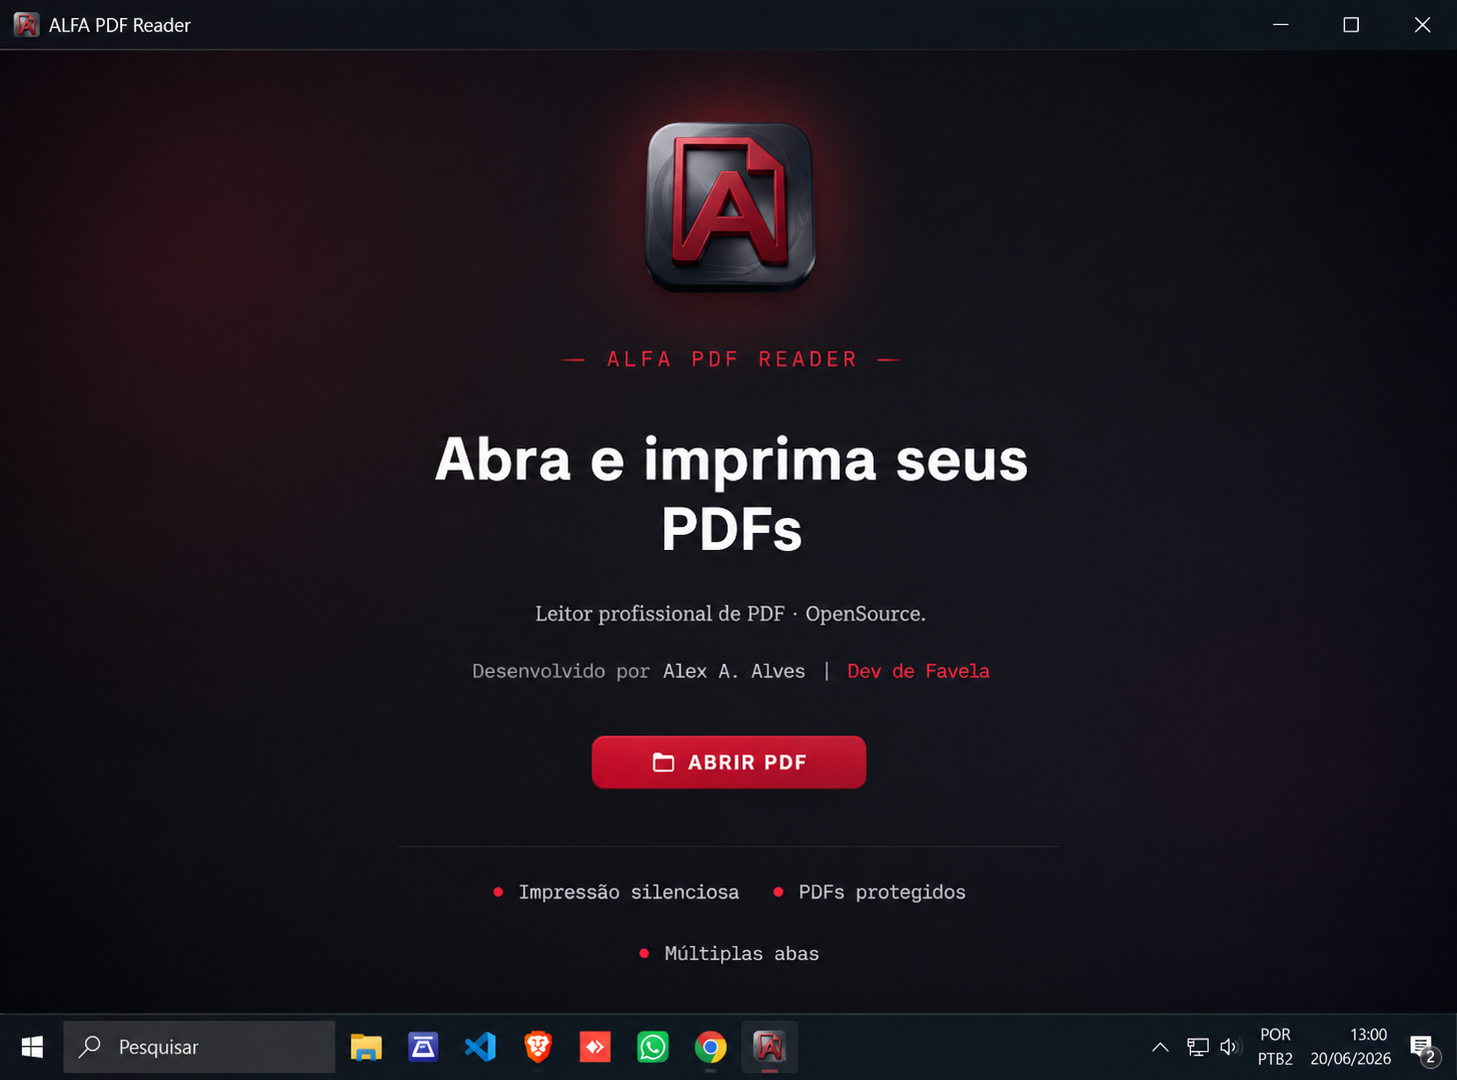
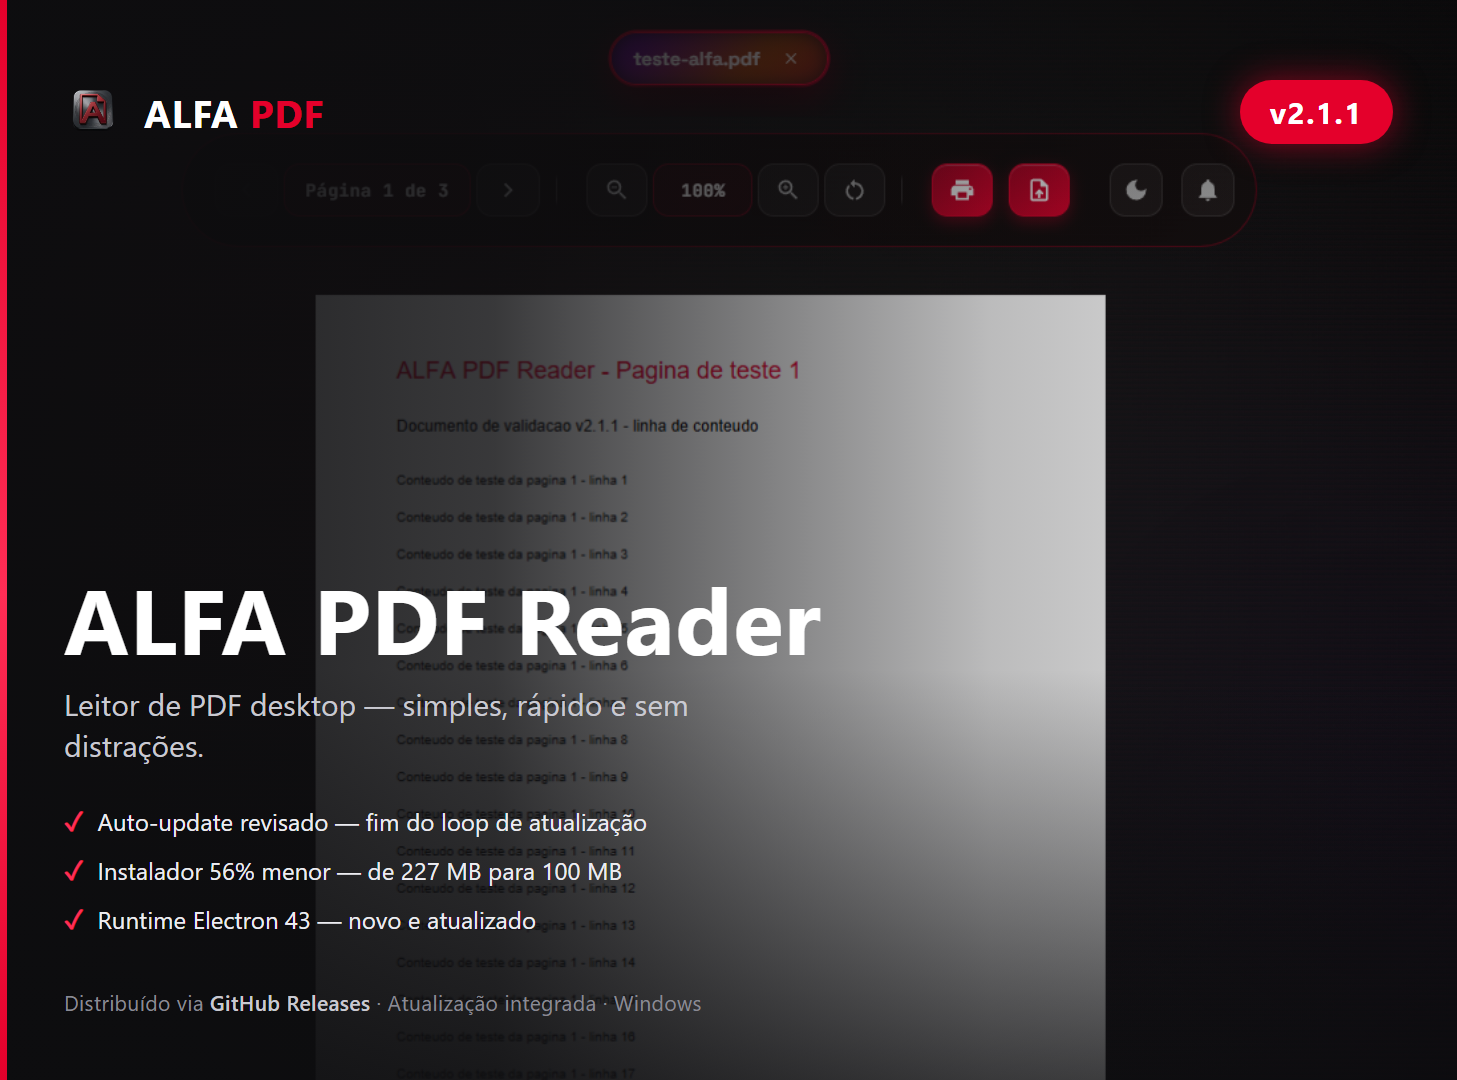
card do alfa v2.1.1 atualizado com prints reais do auto-update

diff --git a/src/components/ProjectSlider/ProjectModal.tsx b/src/components/ProjectSlider/ProjectModal.tsx
@@ -9,9 +9,12 @@ import type { IconType } from 'react-icons'
 
 interface VersionComparison {
     feature: string
-    v12: string
-    v20: string
+    from: string
+    to: string
 }
+
+const NEW_VERSION = 'v2.1.1'
+const OLD_VERSION = 'v2.0'
 
 const techIconMap: Record<string, { Icon: IconType; color: string }> = {
     React: { Icon: SiReact, color: '#61dafb' },
@@ -27,18 +30,18 @@ const techIconMap: Record<string, { Icon: IconType; color: string }> = {
 interface ProjectModalProps {
     project: Project
     onClose: () => void
-    v2Images?: string[]
+    v21Images?: string[]
     v12Images?: string[]
     comparison?: VersionComparison[]
 }
 
-export function ProjectModal({ project, onClose, v2Images = [], v12Images = [], comparison = [] }: ProjectModalProps) {
+export function ProjectModal({ project, onClose, v21Images = [], v12Images = [], comparison = [] }: ProjectModalProps) {
     const closeButtonRef = useRef<HTMLButtonElement>(null)
     const [showV2, setShowV2] = useState(false)
     const [rotate, setRotate] = useState(false)
-    const [currentV2Index, setCurrentV2Index] = useState(0)
+    const [currentV21Index, setCurrentV21Index] = useState(0)
     const [currentV12Index, setCurrentV12Index] = useState(0)
-    const [activeTab, setActiveTab] = useState<'v2' | 'comparison'>('v2')
+    const [activeTab, setActiveTab] = useState<'v21' | 'comparison'>('v21')
 
     useEffect(() => {
         const previouslyFocused = document.activeElement as HTMLElement | null
@@ -66,12 +69,12 @@ export function ProjectModal({ project, onClose, v2Images = [], v12Images = [], 
         }, 500)
     }
 
-    const goToPrevV2 = () => {
-        setCurrentV2Index((prev) => (prev === 0 ? v2Images.length - 1 : prev - 1))
+    const goToPrevV21 = () => {
+        setCurrentV21Index((prev) => (prev === 0 ? v21Images.length - 1 : prev - 1))
     }
 
-    const goToNextV2 = () => {
-        setCurrentV2Index((prev) => (prev === v2Images.length - 1 ? 0 : prev + 1))
+    const goToNextV21 = () => {
+        setCurrentV21Index((prev) => (prev === v21Images.length - 1 ? 0 : prev + 1))
     }
 
     const goToPrevV12 = () => {
@@ -82,7 +85,7 @@ export function ProjectModal({ project, onClose, v2Images = [], v12Images = [], 
         setCurrentV12Index((prev) => (prev === v12Images.length - 1 ? 0 : prev + 1))
     }
 
-    if (showV2 && (v2Images.length > 0 || v12Images.length > 0 || comparison.length > 0)) {
+    if (showV2 && (v21Images.length > 0 || v12Images.length > 0 || comparison.length > 0)) {
         return createPortal(
             <div className="project-modal-template" role="dialog" aria-modal="true" aria-labelledby="project-modal-v2-title" onClick={onClose}>
                 <div className="project-modal-template__card" onClick={(event) => event.stopPropagation()}>
@@ -97,7 +100,7 @@ export function ProjectModal({ project, onClose, v2Images = [], v12Images = [], 
 
                     <div className="project-modal-template__gallery">
                         <div className="project-modal-template__gallery-title">
-                            <h3 id="project-modal-v2-title">{project.title} v2.0</h3>
+                            <h3 id="project-modal-v2-title">{project.title} {NEW_VERSION}</h3>
                             <button
                                 className="project-modal-template__back-btn"
                                 onClick={() => setShowV2(false)}
@@ -109,11 +112,11 @@ export function ProjectModal({ project, onClose, v2Images = [], v12Images = [], 
 
                         <div className="project-modal-template__tabs">
                             <button
-                                className={`project-modal-template__tab ${activeTab === 'v2' ? 'active' : ''}`}
-                                onClick={() => setActiveTab('v2')}
-                                aria-selected={activeTab === 'v2'}
+                                className={`project-modal-template__tab ${activeTab === 'v21' ? 'active' : ''}`}
+                                onClick={() => setActiveTab('v21')}
+                                aria-selected={activeTab === 'v21'}
                             >
-                                Novidades v2.0
+                                Novidades {NEW_VERSION}
                             </button>
                             {comparison.length > 0 && (
                                 <button
@@ -121,53 +124,53 @@ export function ProjectModal({ project, onClose, v2Images = [], v12Images = [], 
                                     onClick={() => setActiveTab('comparison')}
                                     aria-selected={activeTab === 'comparison'}
                                 >
-                                    Comparativo v1.2 → v2.0
+                                    Comparativo {OLD_VERSION} → {NEW_VERSION}
                                 </button>
                             )}
                         </div>
 
-                        {activeTab === 'v2' && v2Images.length > 0 && (
+                        {activeTab === 'v21' && v21Images.length > 0 && (
                             <div className="project-modal-template__carousel">
                                 <button
                                     className="project-modal-template__carousel-btn project-modal-template__carousel-btn--prev"
-                                    onClick={goToPrevV2}
+                                    onClick={goToPrevV21}
                                     aria-label="Imagem anterior"
                                 >
                                     <FaChevronLeft />
                                 </button>
                                 <div className="project-modal-template__carousel-track">
                                     <img
-                                        src={v2Images[currentV2Index]}
-                                        alt={`${project.title} v2.0 - Novidade ${currentV2Index + 1}`}
+                                        src={v21Images[currentV21Index]}
+                                        alt={`${project.title} ${NEW_VERSION} - Novidade ${currentV21Index + 1}`}
                                         loading="lazy"
                                         className="project-modal-template__carousel-image"
                                     />
                                 </div>
                                 <button
                                     className="project-modal-template__carousel-btn project-modal-template__carousel-btn--next"
-                                    onClick={goToNextV2}
+                                    onClick={goToNextV21}
                                     aria-label="Próxima imagem"
                                 >
                                     <FaChevronRight />
                                 </button>
                                 <div className="project-modal-template__carousel-indicators">
-                                    {v2Images.map((_, index) => (
+                                    {v21Images.map((_, index) => (
                                         <button
                                             key={index}
-                                            className={`project-modal-template__indicator ${index === currentV2Index ? 'active' : ''}`}
-                                            onClick={() => setCurrentV2Index(index)}
+                                            className={`project-modal-template__indicator ${index === currentV21Index ? 'active' : ''}`}
+                                            onClick={() => setCurrentV21Index(index)}
                                             aria-label={`Ir para imagem ${index + 1}`}
-                                            aria-current={index === currentV2Index ? 'true' : 'false'}
+                                            aria-current={index === currentV21Index ? 'true' : 'false'}
                                         />
                                     ))}
                                 </div>
                                 <p className="project-modal-template__carousel-caption">
-                                    {currentV2Index + 1} de {v2Images.length}
+                                    {currentV21Index + 1} de {v21Images.length}
                                 </p>
                             </div>
                         )}
 
-                        {activeTab === 'v2' && v12Images.length > 0 && (
+                        {activeTab === 'v21' && v12Images.length > 0 && (
                             <>
                                 <div className="project-modal-template__section-title">Versão 1.2 (Anterior)</div>
                                 <div className="project-modal-template__carousel">
@@ -217,16 +220,16 @@ export function ProjectModal({ project, onClose, v2Images = [], v12Images = [], 
                                     <thead>
                                         <tr>
                                             <th>Recurso</th>
-                                            <th>v1.2</th>
-                                            <th>v2.0</th>
+                                            <th>{OLD_VERSION}</th>
+                                            <th>{NEW_VERSION}</th>
                                         </tr>
                                     </thead>
                                     <tbody>
                                         {comparison.map((item, index) => (
                                             <tr key={index}>
                                                 <td>{item.feature}</td>
-                                                <td className="comparison-v12">{item.v12}</td>
-                                                <td className="comparison-v20">{item.v20}</td>
+                                                <td className="comparison-old">{item.from}</td>
+                                                <td className="comparison-new">{item.to}</td>
                                             </tr>
                                         ))}
                                     </tbody>
@@ -274,13 +277,13 @@ export function ProjectModal({ project, onClose, v2Images = [], v12Images = [], 
                         {project.description}
                     </p>
 
-                    {v2Images.length > 0 && (
+                    {v21Images.length > 0 && (
                         <button
                             className={`project-modal-template__update-btn ${rotate ? 'rotating' : ''}`}
                             onClick={handleUpdateClick}
-                            aria-label={`Ver novidades do ${project.title} v2.0`}
+                            aria-label={`Ver novidades do ${project.title} ${NEW_VERSION}`}
                         >
-                            Ver novidades v2.0
+                            Ver novidades {NEW_VERSION}
                         </button>
                     )}
 

diff --git a/src/data/project.ts b/src/data/project.ts
@@ -1,13 +1,11 @@
 import type { Project, VersionComparison } from '../types/Project'
 
 const alfaPdfComparison: VersionComparison[] = [
-    { feature: 'Auto Update', v12: '❌ Manual', v20: '✅ Automático via GitHub Releases' },
-    { feature: 'Update Notifier', v12: '❌ Não tem', v20: '✅ Notificação integrada com seleção de versão' },
-    { feature: 'Botão Opções Avançadas', v12: 'Lateral na toolbar', v20: 'No modal de impressão (organizado)' },
-    { feature: 'Pipeline de Impressão', v12: 'Básico', v20: 'Revisado com pdf-lib para filtragem de páginas' },
-    { feature: 'UI/UX', v12: 'Responsivo', v20: 'Dark theme, design system consistente' },
-    { feature: 'CI/CD', v12: 'Básico', v20: 'GitHub Actions com lint + typecheck + test' },
-    { feature: 'Tipagem', v12: 'Parcial', v20: 'TypeScript completo com tipos IPC' },
+    { feature: 'Auto Update', from: 'Automático via GitHub Releases', to: '✅ Corrigido — fim do loop de atualização (win-unpacked regenerado a cada release)' },
+    { feature: 'Tamanho do instalador', from: '~227 MB', to: '✅ 100 MB — 56% menor (pacote podado: só pdfjs-dist)' },
+    { feature: 'Runtime Electron', from: 'v30', to: '✅ v43.4.1 — atualizado' },
+    { feature: 'Pacote do app', from: 'node_modules completo', to: '✅ Apenas pdfjs-dist — main 100% bundled' },
+    { feature: 'Validação de release', from: 'Manual', to: '✅ Checklist padrão — 4 etapas (instalação limpa, update real, artefato, GitHub)' },
 ]
 
 export const projects: Project[] = [
@@ -29,12 +27,14 @@ export const projects: Project[] = [
             'Impressão silenciosa integrada ao Windows (testada com EPSON L3150)',
             'Registrado como aplicativo padrão para abrir arquivos .pdf',
             'Instalador NSIS com identidade visual própria',
+            'v2.1.1: auto-update revisado (fim do loop) e instalador 56% menor',
         ],
-        v2Images: [
-            '/projects/AlfaPDF-v2.0-feature1.png',
-            '/projects/AlfaPDF-v2.0-feature2.png',
-            '/projects/AlfaPDF-v2.0-feature3.png',
-            '/projects/AlfaPDF-v2.0-feature4.png',
+        v21Images: [
+            '/projects/AlfaPDF-v2.1.1-feature1.png',
+            '/projects/AlfaPDF-v2.1.1-feature2.png',
+            '/projects/AlfaPDF-v2.1.1-feature3.png',
+            '/projects/AlfaPDF-v2.1.1-feature4.png',
+            '/projects/AlfaPDF-v2.1.1-feature5.png',
         ],
         v12Images: [
             '/projects/AlfaPDF-v1.2-feature1.png',

diff --git a/src/components/ProjectSlider/ProjectSlider.tsx b/src/components/ProjectSlider/ProjectSlider.tsx
@@ -74,7 +74,7 @@ export function ProjectSlider() {
                 <ProjectModal
                     project={openedProject}
                     onClose={closeModal}
-                    v2Images={openedProject.v2Images}
+                    v21Images={openedProject.v21Images}
                     v12Images={openedProject.v12Images}
                     comparison={openedProject.comparison}
                 />

diff --git a/src/types/Project.ts b/src/types/Project.ts
@@ -1,7 +1,7 @@
 export interface VersionComparison {
     feature: string
-    v12: string
-    v20: string
+    from: string
+    to: string
 }
 
 export interface Project {
@@ -18,7 +18,7 @@ export interface Project {
     solution?: string
     challenges?: string
     results?: string
-    v2Images?: string[]
+    v21Images?: string[]
     v12Images?: string[]
     comparison?: VersionComparison[]
 }

diff --git a/src/styles/modal.css b/src/styles/modal.css
@@ -797,12 +797,12 @@
   background: rgba(192, 132, 252, 0.05);
 }
 
-.comparison-v12 {
+.comparison-old {
   color: var(--text-h);
   opacity: 0.8;
 }
 
-.comparison-v20 {
+.comparison-new {
   color: var(--primary);
   font-weight: 500;
 }
